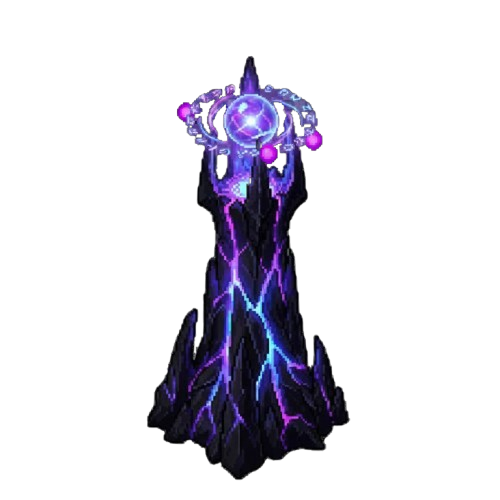
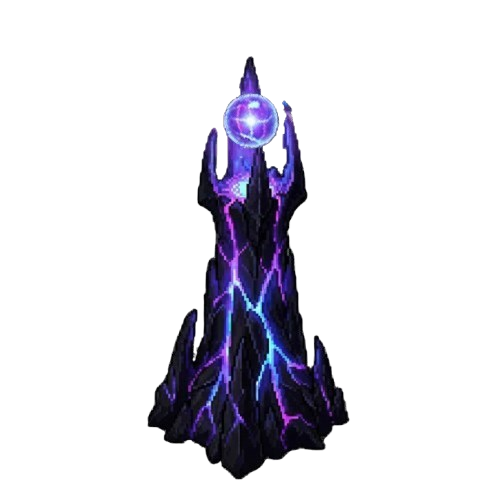
MageIdleFixed

diff --git a/src/Map.js b/src/Map.js
@@ -10,8 +10,8 @@ export class Map {
         // Load individual assets with explicit paths
         this.loadImage('Main_unit', 'assets/units/soldier/Main_soldier.png');
         this.loadImage('unit_tank', 'assets/units/unit_tank.png');
-        this.loadImage('Main_tower', 'assets/towers/Main_tower.png');
-        this.loadImage('tower_mage', 'assets/towers/MageTower/tower_mage.png');
+        this.loadImage('Main_tower', 'assets/towers/MageTower/TowerMage.png');
+        this.loadImage('tower_mage', 'assets/towers/MageTower/TowerMage.png');
         this.loadImage('tower_tesla', 'assets/towers/TeslaTowerAnima/TeslaTower-removebg-preview.png');
         this.loadImage('unit_golem', 'unit_golem.png');
         this.loadImage('explosion', 'explosion.png'); // Kept in root

diff --git a/src/Tower.js b/src/Tower.js
@@ -34,7 +34,7 @@ export class Tower {
 
         // Idle Animation State
         this.idleTimer = 0;
-        this.idleInterval = 3000; // Trigger every 3 seconds
+        this.idleInterval = (type === 'tower_mage') ? 0 : 3000; // Continuous for Mage, 3s for others
         // Slower idle for Mage (e.g., 1000ms vs 500ms)
         this.idleDuration = (type === 'tower_mage') ? 1000 : 500;
         this.isIdleAnimating = false;
